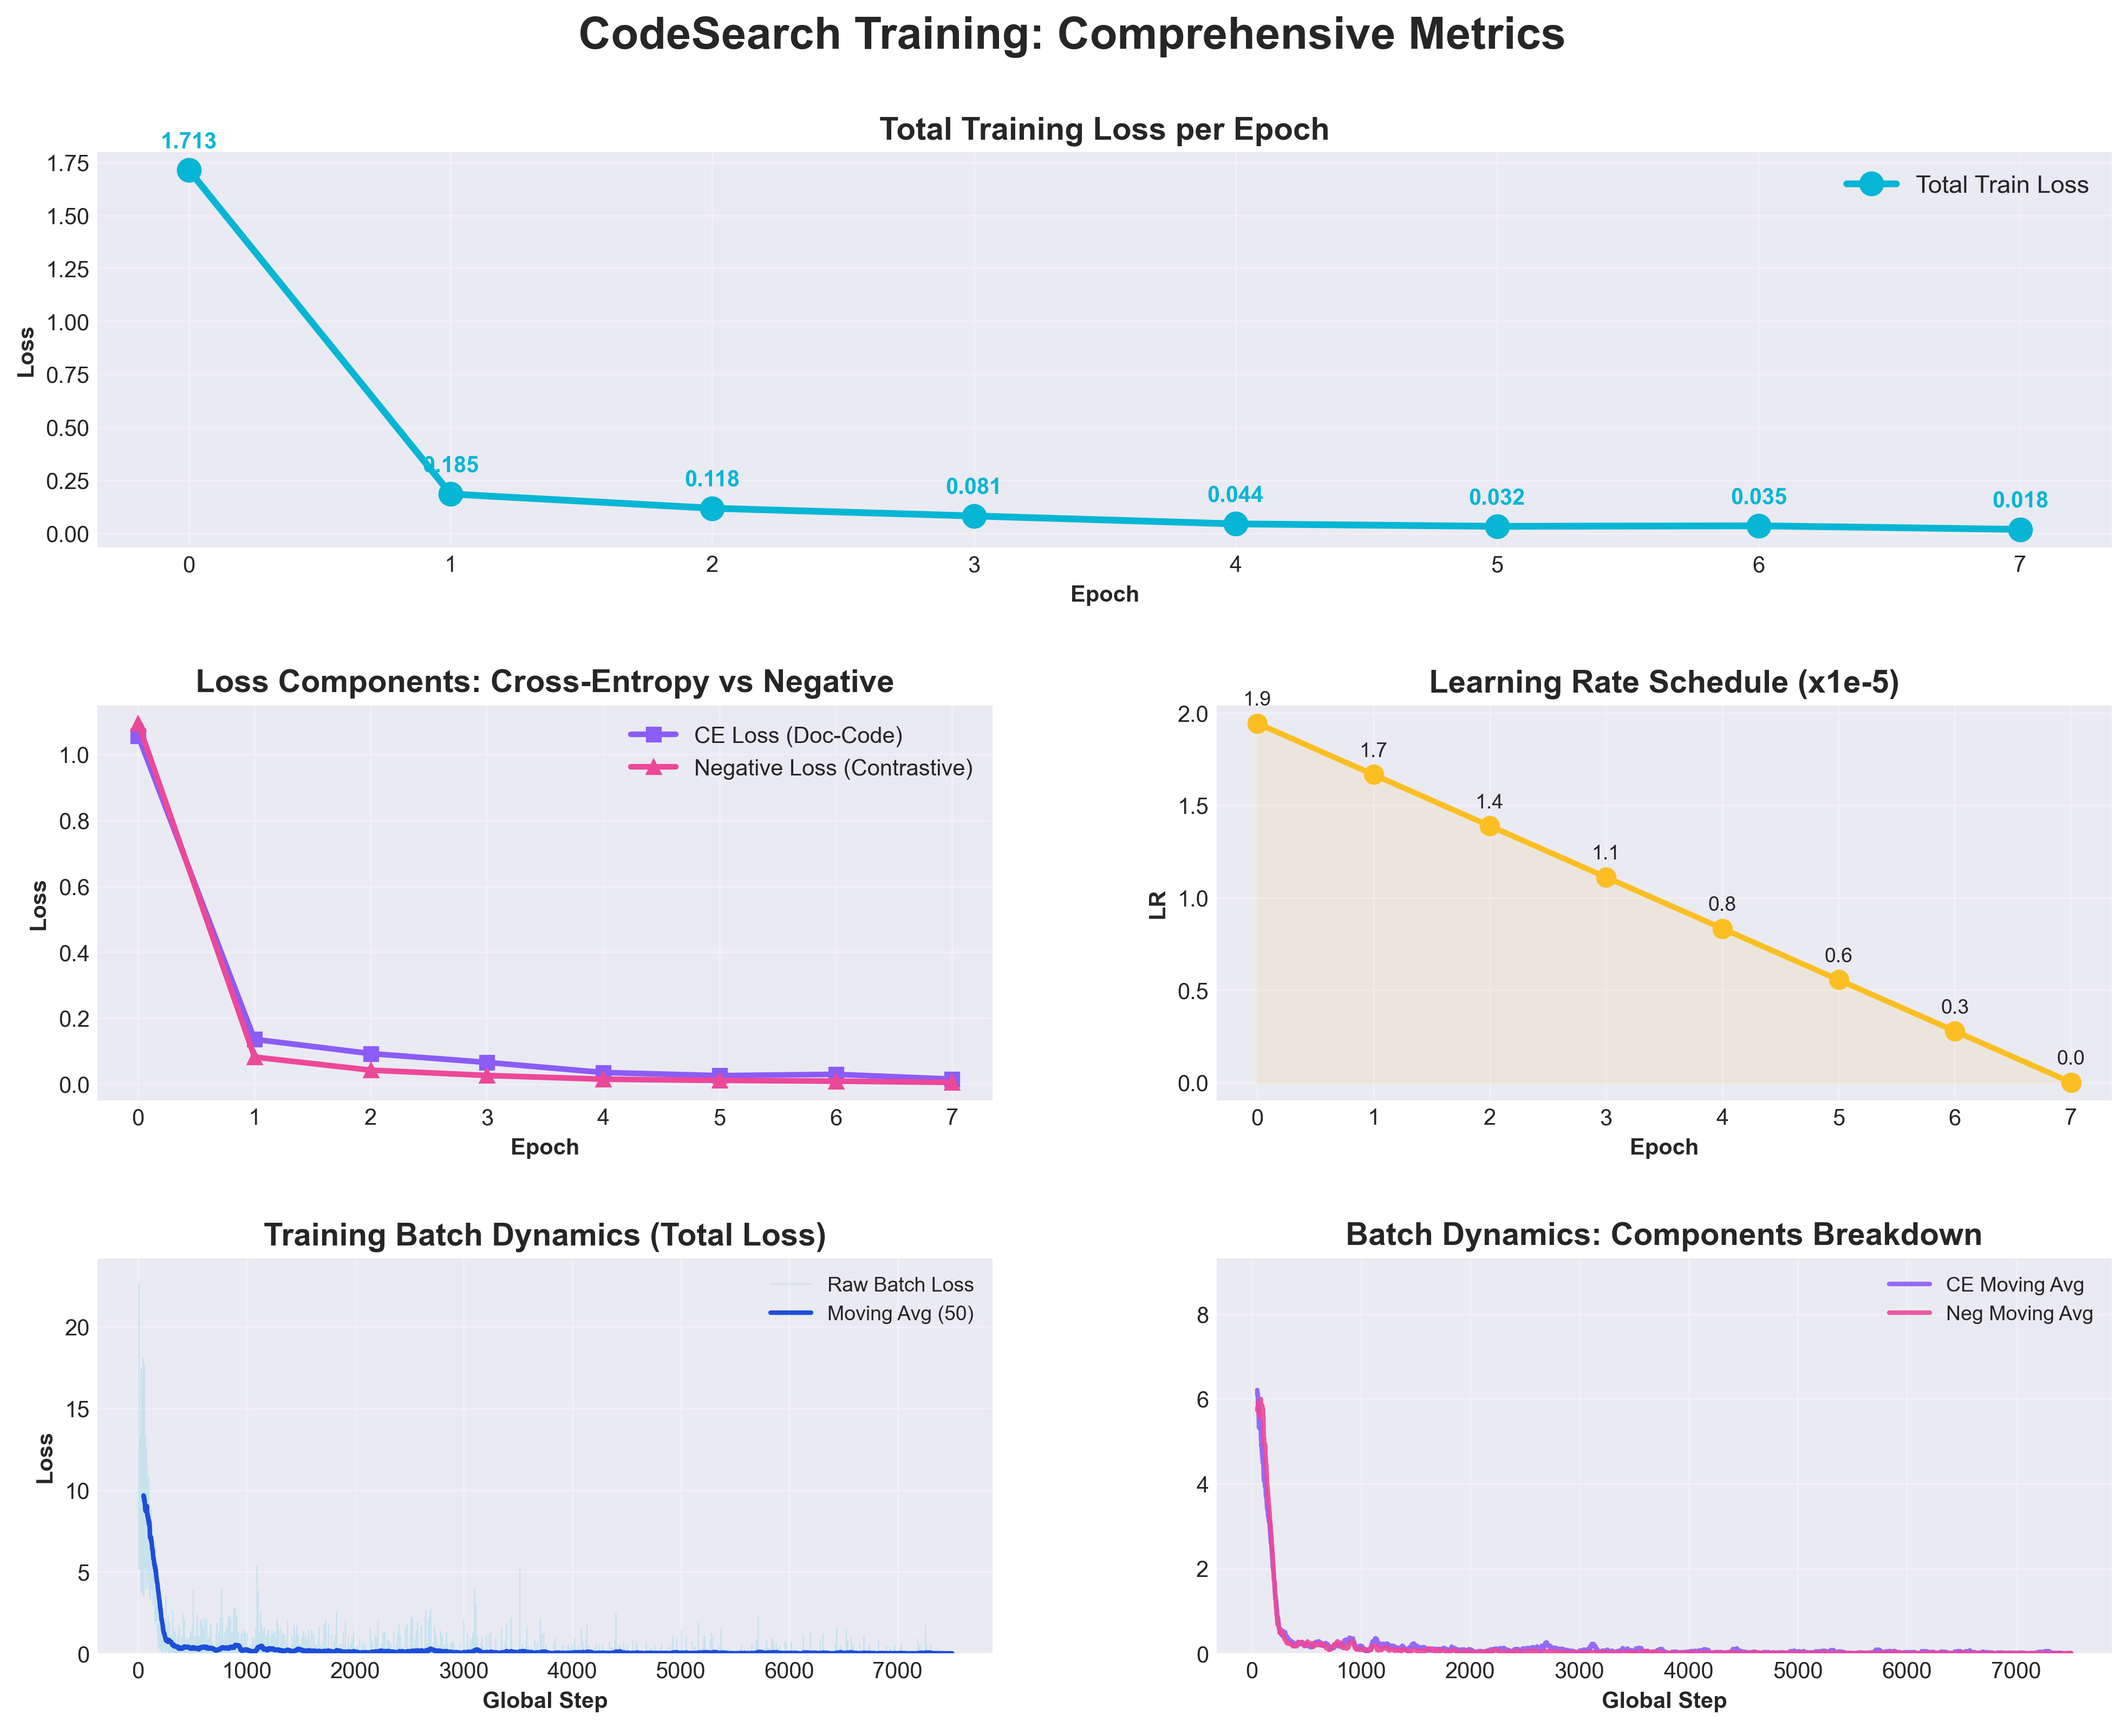
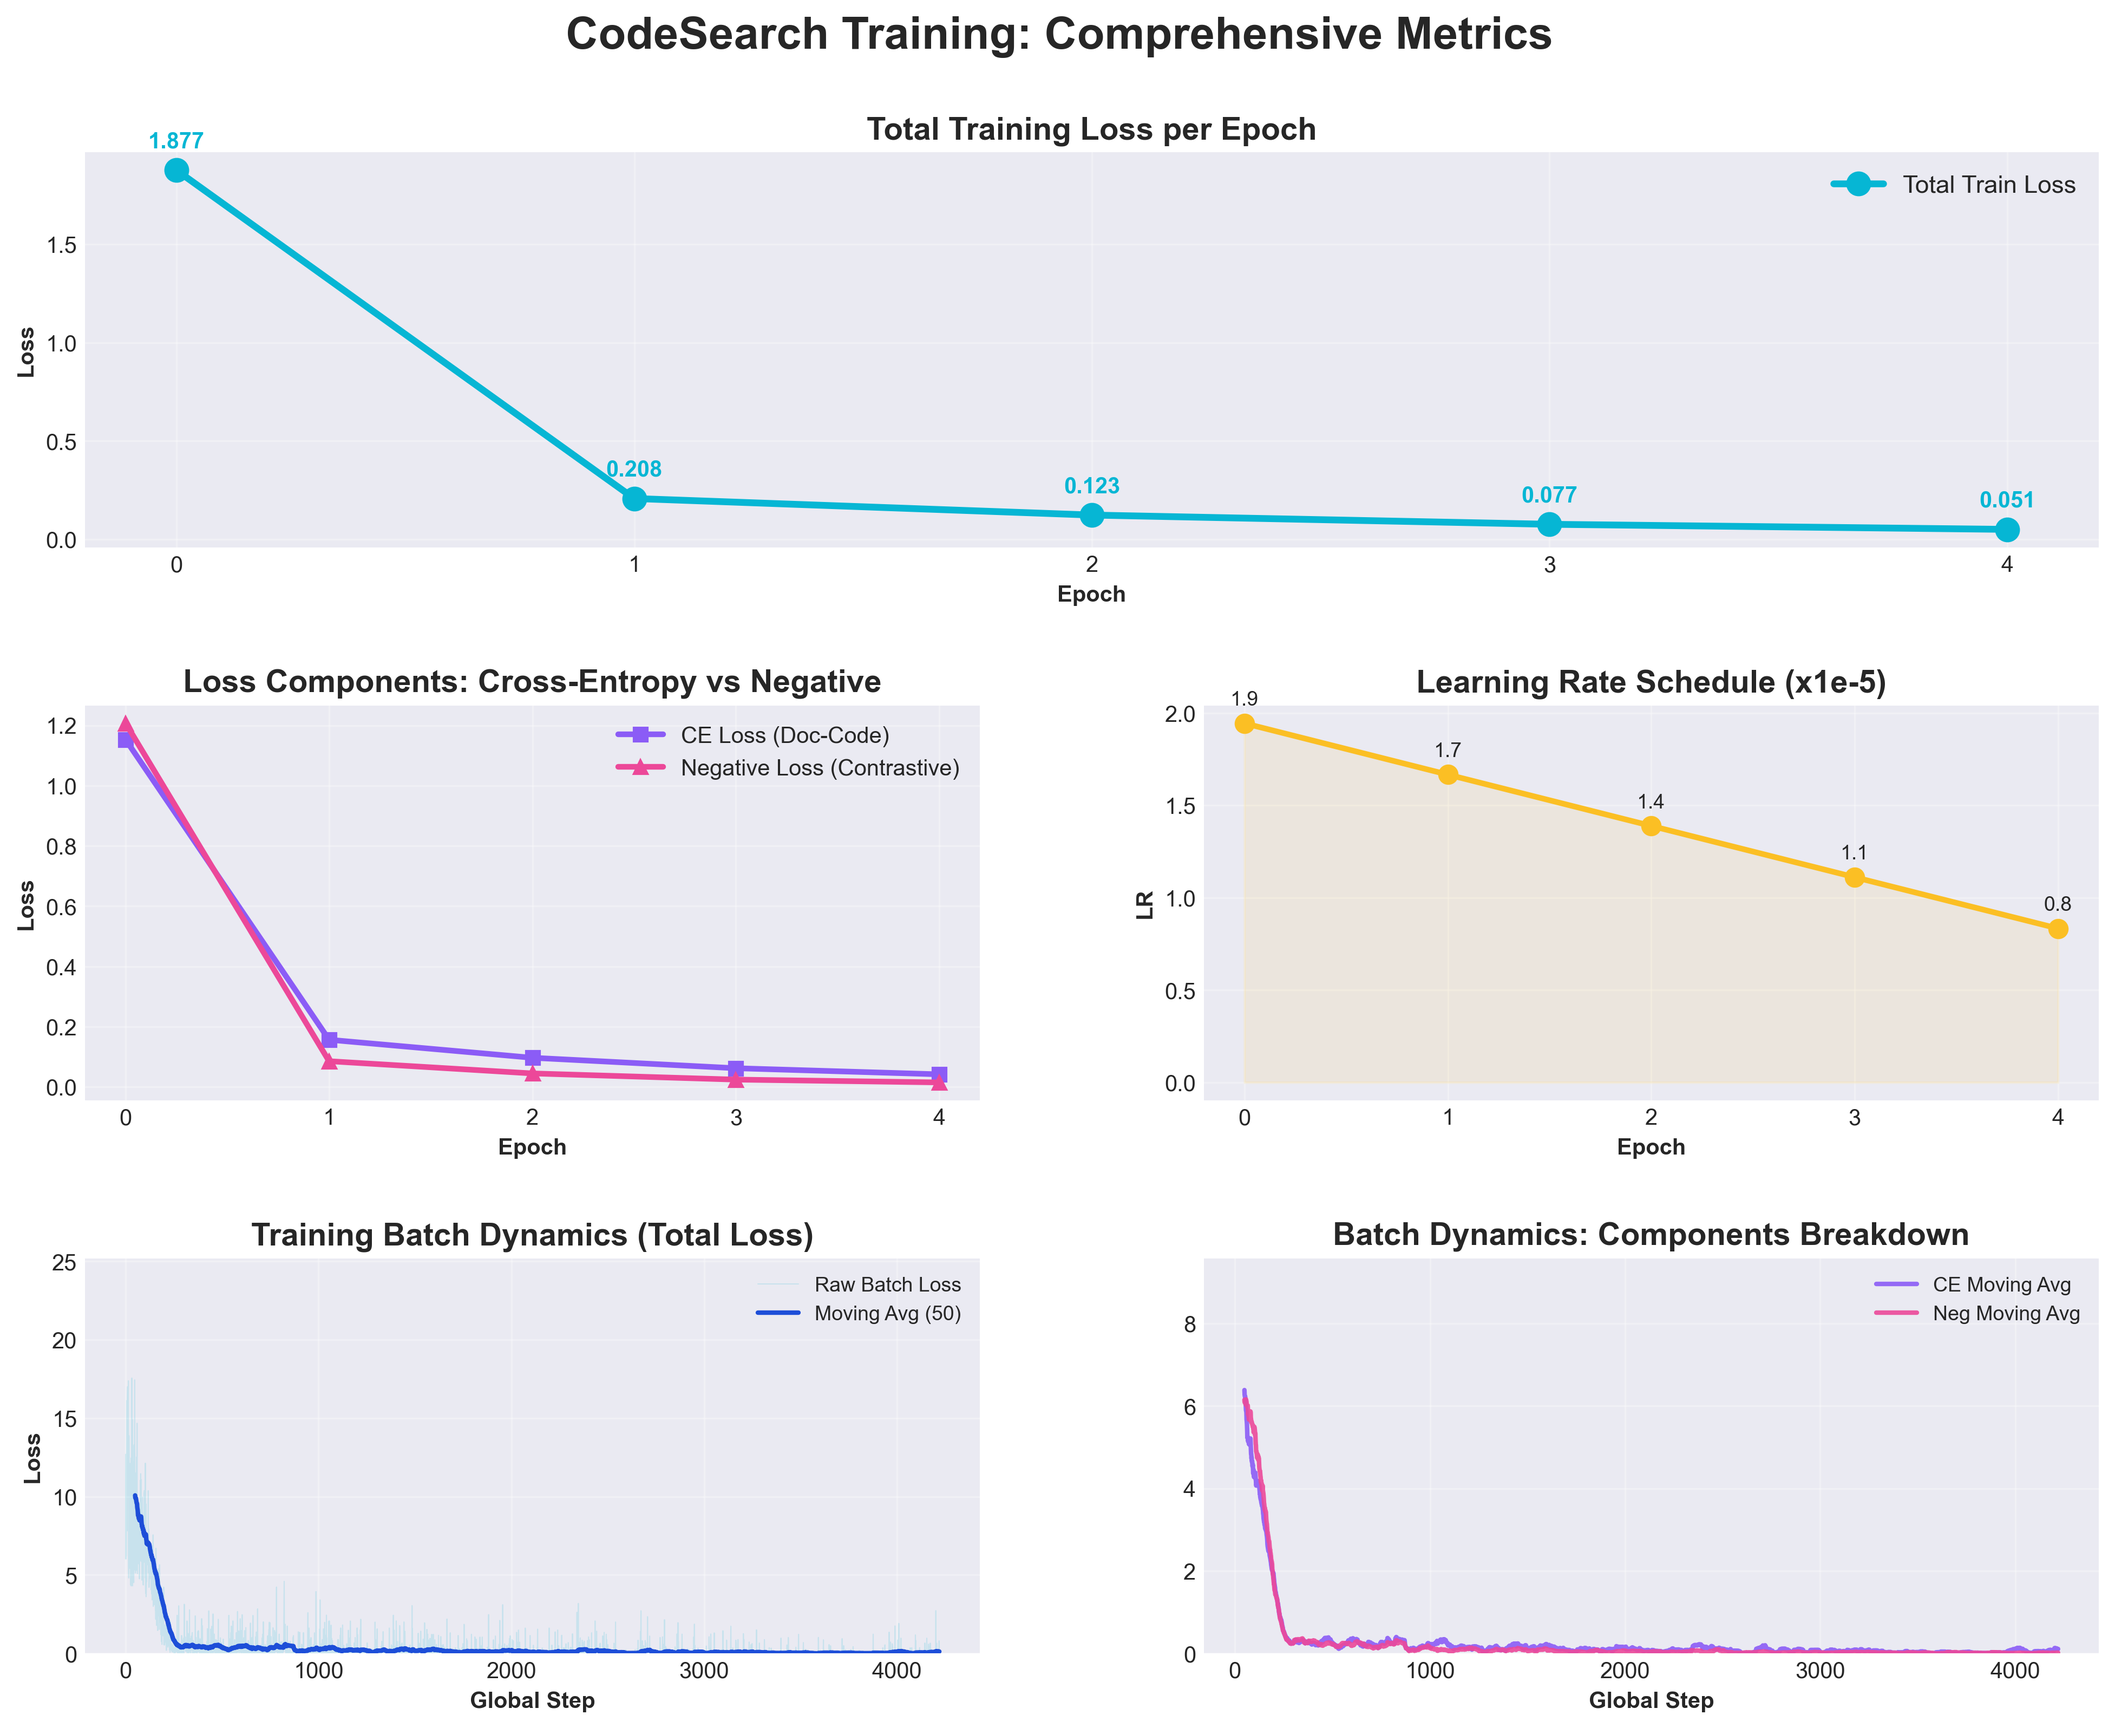
diag

diff --git a/BERTModels/Evaluate/codesearch_diagrams.py b/BERTModels/Evaluate/codesearch_diagrams.py
@@ -1,20 +1,23 @@
 import json
 import matplotlib.pyplot as plt
 import matplotlib.gridspec as gridspec
-import numpy as np
 import pandas as pd
+import numpy as np
+import argparse
+from pathlib import Path
 
 # Stílus beállítása
 plt.style.use('seaborn-v0_8-darkgrid')
 
-# Színek definiálása (hasonlóan az előzőhöz)
 COLORS = {
-    'total': '#06b6d4',  # Cyan (Total Loss)
-    'ce': '#8b5cf6',  # Violet (Cross Entropy)
-    'neg': '#ec4899',  # Pink (Negative Loss)
-    'lr': '#fbbf24',  # Amber (Learning Rate)
-    'batch_raw': '#93c5fd',  # Halvány kék (Batch raw)
-    'batch_avg': '#1d4ed8'  # Sötét kék (Batch avg)
+    'train_total': '#06b6d4',  # Cyan
+    'val_total': '#ef4444',  # Red
+    'train_ce': '#8b5cf6',  # Violet
+    'val_ce': '#c4b5fd',  # Light Violet
+    'train_neg': '#ec4899',  # Pink
+    'val_neg': '#fbcfe8',  # Light Pink
+    'lr': '#fbbf24',  # Amber
+    'batch': '#93c5fd'  # Light Blue
 }
 
 
@@ -23,120 +26,97 @@ def load_history(filepath):
         return json.load(f)
 
 
-def plot_comprehensive_metrics(history_file, output_file='codesearch_comprehensive.png'):
-    """
-    Generál egy összefoglaló ábrát (All-in-One) a CodeSearch training history-ból.
-    Mivel nincs validációs adat, a komponenseket (CE vs Neg) hasonlítja össze.
-    """
-    history = load_history(history_file)
+def plot_validation_analysis(history_file, output_file='training_analysis.png'):
+    try:
+        history = load_history(history_file)
+    except FileNotFoundError:
+        print(f"Hiba: A fájl nem található: {history_file}")
+        return
+
     epochs = history['epoch']
 
-    # Adatok előkészítése
-    train_loss = history['train_total_loss']
-    ce_loss = history['train_ce_loss']
-    neg_loss = history['train_neg_loss']
-    lr = history['learning_rate']
+    # Ellenőrizzük, hogy van-e validációs adat a JSON-ben
+    has_val = 'val_total_loss' in history
 
-    # Batch adatok és mozgóátlag
-    batch_losses = history['train_batch_losses']
-    window = 50  # Simításhoz
-    batch_series = pd.Series(batch_losses)
-    moving_avg = batch_series.rolling(window=window).mean()
+    # Ábra elrendezés létrehozása
+    fig = plt.figure(figsize=(16, 14))
+    gs = gridspec.GridSpec(3, 2, height_ratios=[1, 1, 1], hspace=0.35, wspace=0.2)
 
-    # Batch komponensek mozgóátlaga
-    ce_batch_avg = pd.Series(history['train_ce_batch_losses']).rolling(window=window).mean()
-    neg_batch_avg = pd.Series(history['train_neg_batch_losses']).rolling(window=window).mean()
+    fig.suptitle('CodeSearch Finomhangolás Elemzés', fontsize=20, fontweight='bold', y=0.96)
 
-    # --- ÁBRA LÉTREHOZÁSA ---
-    fig = plt.figure(figsize=(16, 12))
-    gs = gridspec.GridSpec(3, 2, height_ratios=[1, 1, 1], hspace=0.4, wspace=0.25)
-
-    fig.suptitle('CodeSearch Training: Comprehensive Metrics', fontsize=20, fontweight='bold', y=0.95)
-
-    # 1. TOTAL LOSS PER EPOCH (Teljes szélességben fent)
+    # --- 1. TOTAL LOSS (Train vs Val) ---
     ax1 = fig.add_subplot(gs[0, :])
-    ax1.plot(epochs, train_loss, marker='o', linewidth=3, markersize=10, label='Total Train Loss',
-             color=COLORS['total'])
+    ax1.plot(epochs, history['train_total_loss'], marker='o', linewidth=3,
+             label='Train Total Loss', color=COLORS['train_total'])
 
-    # Értékek kiírása a pontok fölé
-    for e, loss in zip(epochs, train_loss):
-        ax1.annotate(f'{loss:.3f}', (e, loss), textcoords="offset points", xytext=(0, 10),
-                     ha='center', fontsize=10, fontweight='bold', color=COLORS['total'])
+    if has_val:
+        ax1.plot(epochs, history['val_total_loss'], marker='s', linewidth=3,
+                 label='Validation Total Loss', color=COLORS['val_total'], linestyle='--')
+        # Annotációk a validációs loss-hoz
+        for e, v_loss in zip(epochs, history['val_total_loss']):
+            ax1.annotate(f'{v_loss:.3f}', (e, v_loss), textcoords="offset points",
+                         xytext=(0, 10), ha='center', fontsize=9, fontweight='bold', color=COLORS['val_total'])
 
-    ax1.set_title('Total Training Loss per Epoch', fontsize=14, fontweight='bold')
-    ax1.set_ylabel('Loss', fontweight='bold')
+    ax1.set_title('Total Loss Alakulása (Overfitting Ellenőrzés)', fontsize=14, fontweight='bold')
+    ax1.set_ylabel('Veszteség (Loss)', fontweight='bold')
     ax1.set_xlabel('Epoch', fontweight='bold')
-    ax1.set_xticks(epochs)
-    ax1.legend(fontsize=11)
+    ax1.legend(fontsize=12)
     ax1.grid(True, alpha=0.3)
 
-    # 2. LOSS COMPONENTS BREAKDOWN (Train vs Val helyett CE vs Neg)
+    # --- 2. COMPONENT: CROSS-ENTROPY ---
     ax2 = fig.add_subplot(gs[1, 0])
-
-    # Vonalas ábrázolás a komponensekhez
-    ax2.plot(epochs, ce_loss, marker='s', linewidth=2.5, label='CE Loss (Doc-Code)', color=COLORS['ce'])
-    ax2.plot(epochs, neg_loss, marker='^', linewidth=2.5, label='Negative Loss (Contrastive)', color=COLORS['neg'])
-
-    ax2.set_title('Loss Components: Cross-Entropy vs Negative', fontsize=14, fontweight='bold')
+    ax2.plot(epochs, history['train_ce_loss'], marker='o', label='Train CE', color=COLORS['train_ce'])
+    if has_val:
+        ax2.plot(epochs, history['val_ce_loss'], marker='s', label='Val CE', color=COLORS['val_ce'], linestyle='--')
+    ax2.set_title('Cross-Entropy Loss (Pozitív Párok)', fontsize=14, fontweight='bold')
     ax2.set_xlabel('Epoch', fontweight='bold')
-    ax2.set_ylabel('Loss', fontweight='bold')
-    ax2.set_xticks(epochs)
-    ax2.legend(fontsize=10)
+    ax2.legend()
     ax2.grid(True, alpha=0.3)
 
-    # 3. LEARNING RATE SCHEDULE
+    # --- 3. COMPONENT: NEGATIVE LOSS ---
     ax3 = fig.add_subplot(gs[1, 1])
-    # Skálázás, hogy olvashatóbb legyen (pl. 1e-5 egységben)
-    lr_scaled = [l * 1e5 for l in lr]
-
-    ax3.plot(epochs, lr_scaled, marker='o', linewidth=2.5, markersize=8, color=COLORS['lr'], label='LR')
-    ax3.fill_between(epochs, lr_scaled, alpha=0.1, color=COLORS['lr'])
-
-    for e, l in zip(epochs, lr_scaled):
-        ax3.annotate(f'{l:.1f}', (e, l), textcoords="offset points", xytext=(0, 8), ha='center', fontsize=9)
-
-    ax3.set_title('Learning Rate Schedule (x1e-5)', fontsize=14, fontweight='bold')
+    ax3.plot(epochs, history['train_neg_loss'], marker='o', label='Train Neg', color=COLORS['train_neg'])
+    if has_val:
+        ax3.plot(epochs, history['val_neg_loss'], marker='s', label='Val Neg', color=COLORS['val_neg'], linestyle='--')
+    ax3.set_title('Negative Loss (Kontrasztív)', fontsize=14, fontweight='bold')
     ax3.set_xlabel('Epoch', fontweight='bold')
-    ax3.set_ylabel('LR', fontweight='bold')
-    ax3.set_xticks(epochs)
+    ax3.legend()
     ax3.grid(True, alpha=0.3)
 
-    # 4. TRAINING BATCH DYNAMICS (Total)
+    # --- 4. BATCH DYNAMICS ---
     ax4 = fig.add_subplot(gs[2, 0])
-    ax4.plot(batch_losses, color=COLORS['total'], alpha=0.15, label='Raw Batch Loss', linewidth=0.5)
-    ax4.plot(moving_avg, color=COLORS['batch_avg'], linewidth=2, label=f'Moving Avg ({window})')
+    batch_losses = history.get('train_batch_losses', [])
+    if batch_losses:
+        ax4.plot(batch_losses, color=COLORS['batch'], alpha=0.3, label='Nyers Batch Loss')
+        window = min(50, len(batch_losses) // 10) if len(batch_losses) > 10 else 1
+        if window > 0:
+            ma = pd.Series(batch_losses).rolling(window=window).mean()
+            ax4.plot(ma, color='#2563eb', linewidth=2, label=f'Mozgóátlag ({window})')
 
-    ax4.set_title('Training Batch Dynamics (Total Loss)', fontsize=14, fontweight='bold')
-    ax4.set_xlabel('Global Step', fontweight='bold')
+        ax4.set_ylim(0, max(pd.Series(batch_losses).dropna().quantile(0.95), 0.1) * 1.5)  # Outlierek levágása
+
+    ax4.set_title('Tréning Stabilitás (Batch Loss)', fontsize=14, fontweight='bold')
+    ax4.set_xlabel('Lépés (Step)', fontweight='bold')
     ax4.set_ylabel('Loss', fontweight='bold')
-    ax4.legend(loc='upper right', fontsize=9)
+    ax4.legend()
     ax4.grid(True, alpha=0.3)
-    # Limitáljuk az Y tengelyt, hogy a kiugró tüskék ne torzítsák el az ábrát
-    ax4.set_ylim(0, max(moving_avg.dropna()) * 2.5)
 
-    # 5. BATCH COMPONENTS DYNAMICS (CE vs Neg - Moving Average only)
+    # --- 5. LEARNING RATE ---
     ax5 = fig.add_subplot(gs[2, 1])
-    ax5.plot(ce_batch_avg, color=COLORS['ce'], linewidth=2, label='CE Moving Avg', alpha=0.9)
-    ax5.plot(neg_batch_avg, color=COLORS['neg'], linewidth=2, label='Neg Moving Avg', alpha=0.9)
-
-    ax5.set_title('Batch Dynamics: Components Breakdown', fontsize=14, fontweight='bold')
-    ax5.set_xlabel('Global Step', fontweight='bold')
-    ax5.legend(loc='upper right', fontsize=9)
+    lrs = [l * 1e5 for l in history.get('learning_rate', [])]
+    if lrs:
+        ax5.plot(epochs, lrs, marker='o', color=COLORS['lr'], linewidth=2)
+        ax5.fill_between(epochs, lrs, alpha=0.1, color=COLORS['lr'])
+    ax5.set_title('Tanulási Ráta (x1e-5)', fontsize=14, fontweight='bold')
+    ax5.set_xlabel('Epoch', fontweight='bold')
     ax5.grid(True, alpha=0.3)
-    ax5.set_ylim(0, max(ce_batch_avg.dropna()) * 1.5)
 
-    # Mentés
-    plt.tight_layout(rect=[0, 0.03, 1, 0.95])  # Hagyunk helyet a főcímnek
+    plt.tight_layout(rect=[0, 0.03, 1, 0.95])
     plt.savefig(output_file, dpi=300, bbox_inches='tight')
-    print(f"✓ Comprehensive diagram saved to: {output_file}")
+    print(f"✓ Diagram elmentve: {output_file}")
     plt.show()
 
 
 if __name__ == "__main__":
-    # Fájl neve (feltételezve, hogy ugyanott van a script, mint a json)
-    json_path = '/Users/czapmate/Desktop/szakdoga/GraphCodeBert_CPP/BERTModels/GraphCodeBert/CodeSearch/graphcodebert-cpp-codesearch/training_history.json'
-
-    try:
-        plot_comprehensive_metrics(json_path)
-    except FileNotFoundError:
-        print(f"Error: {json_path} not found. Please define the correct path.")
+    # Itt add meg a JSON fájl nevét
+    plot_validation_analysis('/Users/czapmate/Desktop/szakdoga/GraphCodeBert_CPP/BERTModels/GraphCodeBert/CodeSearch/graphcodebert-cpp-codesearch/training_history.json')
